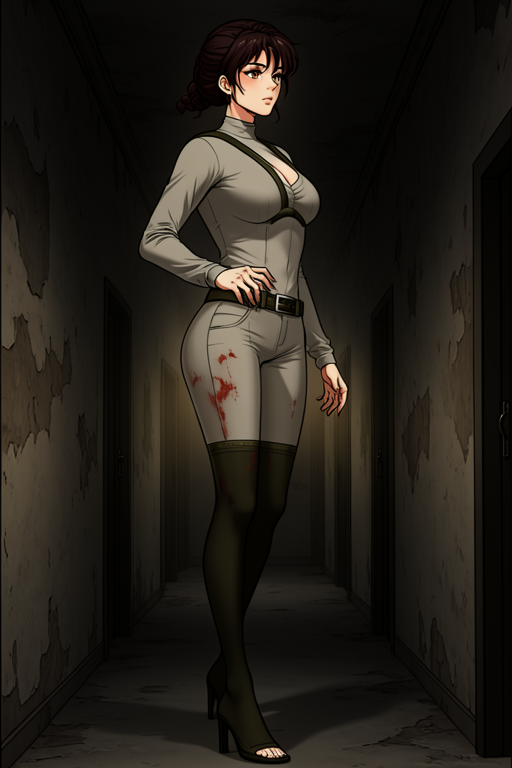
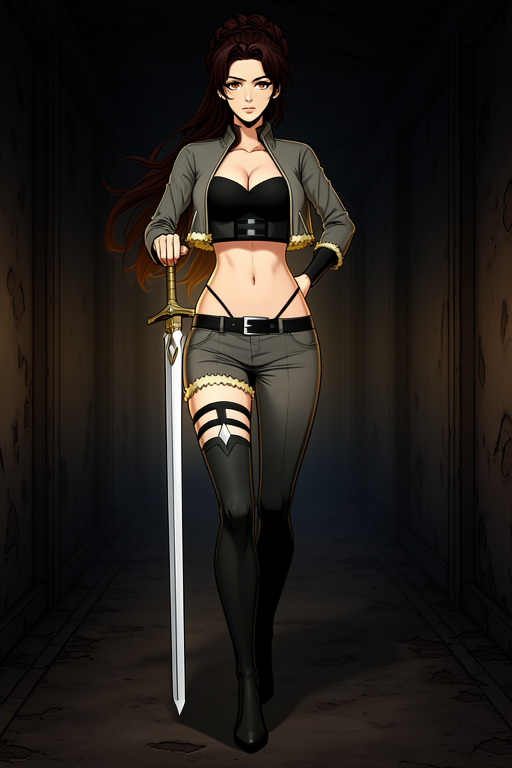
Restore Wren to concept D and bind Renna redo A.
The previous Wren A swap was a misread; Renna's new A was the intended pick.

diff --git a/tests/test_one_star_ascension_checkpoint.py b/tests/test_one_star_ascension_checkpoint.py
@@ -125,6 +125,7 @@ def test_roster_shape_and_player_binding() -> None:
 
 BOUND_IDENTITY_REFERENCE_IDS = {
     "iselle_the_guide": "osa_iselle_source_v1",
+    "renna_holt": "osa_renna_holt_v1",
     "rowan_kest": "osa_rowan_kest_v1",
     "liora_fen": "osa_liora_fen_v1",
     "wren_thelantern": "osa_wren_thelantern_v1",
@@ -141,7 +142,6 @@ BOUND_IDENTITY_REFERENCE_IDS = {
 UNBOUND_IDENTITY_IDS = {
     "one_star_newcomer",
     "the_master",
-    "renna_holt",
 }
 
 
